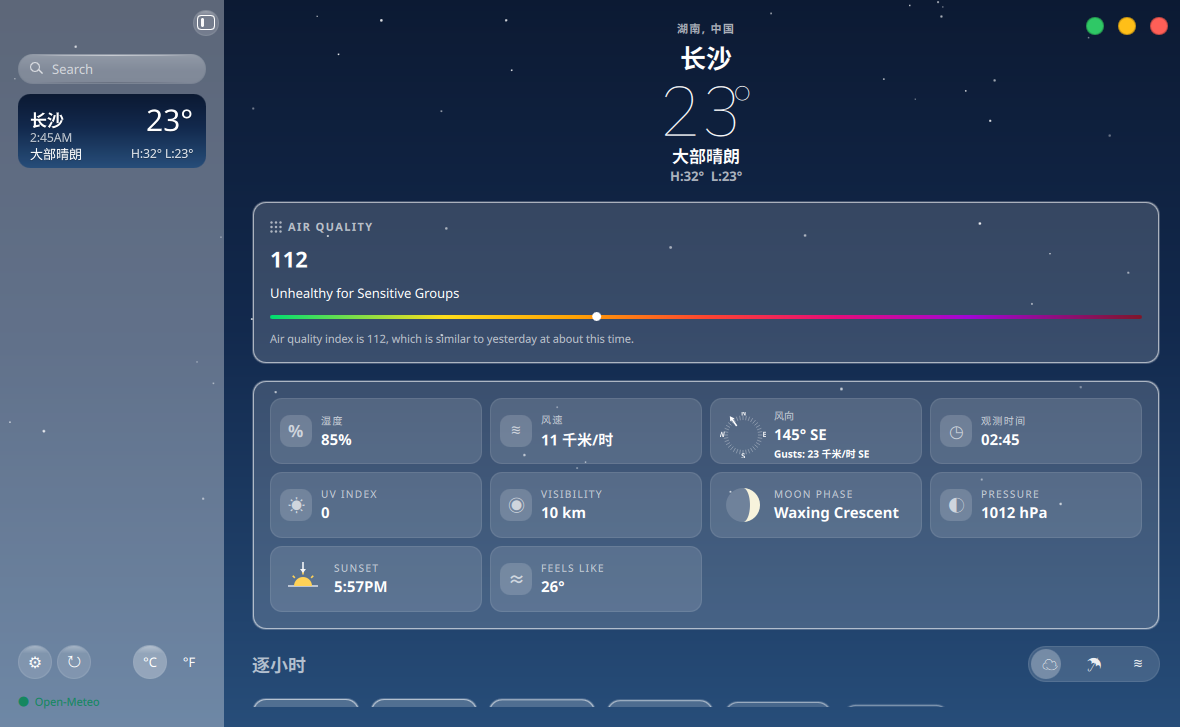
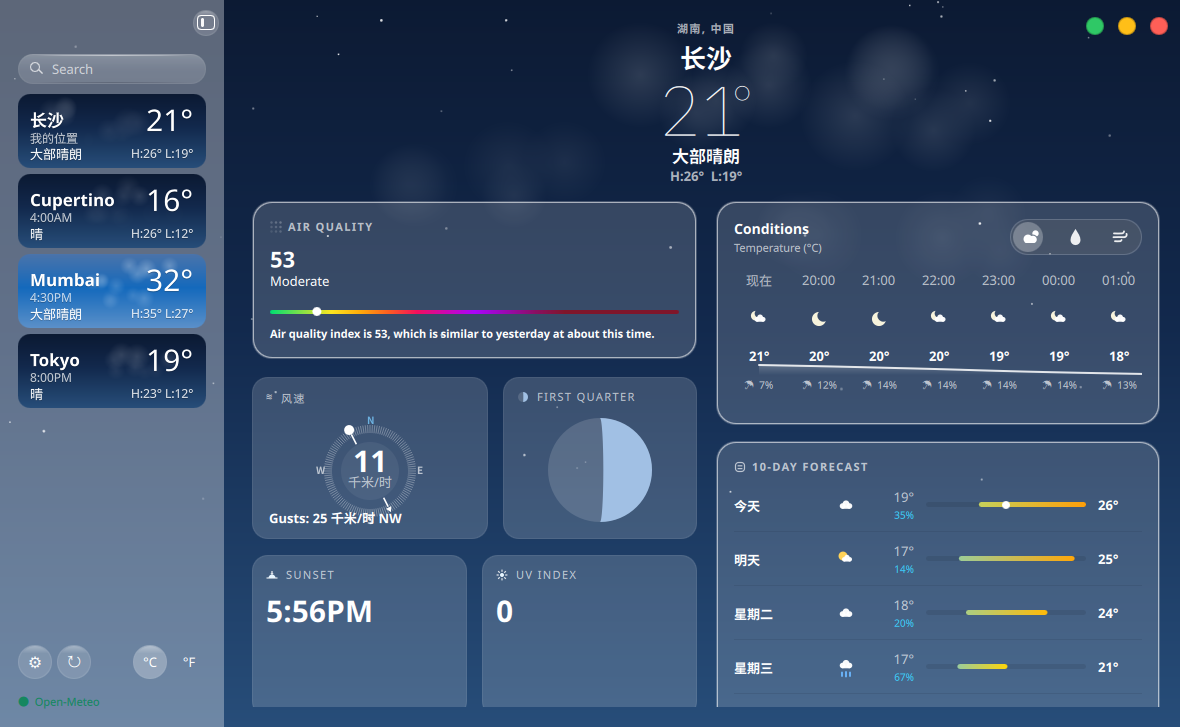
docs: round 54 进度与截图

diff --git a/docs/ui-weather/LEDGER.md b/docs/ui-weather/LEDGER.md
@@ -4,6 +4,10 @@
 参考实测色（814×498 主图采样）：天空 `#2961a7→#1469bc→#538ec9`（上→下，含云照片）；Conditions 卡 `#0057b2`；hero 文本 `#ffffff`；10天条渐变 青→黄→橙。
 
 ## 已改
+- **10 天行降水 % 从图标列移到低温列正下方（本轮，前端，零 Go/C++/shared/翻译改动，巡检轮新发现）**：对照 tile-10day（iPad 原生切片）实测——参考 Fri 行低温 "54°" 墨 x155-177、其下 "50%" 墨 x150-181（**同列近居中**），且垂直方向 temp+% 整块（y242-281，中心 261.5）对齐星期名中心（y257-268，中心 262.5），无 % 的 Thu 行 temp（y188-199）与星期名（y184-196）直接对齐；ref-main 中 % 同样在低温列下。我方 % 此前放在图标 Column 内（图标下方）——错一列。`apps/weather/qml/Main.qml:3142-3178`：% Label 移出图标 Column（图标列只剩 WeatherIcon）；低温 Label 包入 `Column { Layout.preferredWidth: 44; spacing: 2 }`，低温 `width: 44` 属性逐字保留，% Label `width: 44` AlignRight 同轴落下（color #3dcaf8 / 10px / visible>0 / Accessible.name 原样），注释标明 tile-10day 实测依据；其余零改动。
+  **实测**（本轮二进制截图 tmp/shots/pctmove-1792324951.png 过体检闸 ✅ 1180×727，dev env + KOS_SCREENSHOT_DELAY_MS=2500）：4 行 %（35/14/20/67%）全部落在各自低温正下方，% 右缘 x913 vs 低温右缘 x915（≤2px 同轴）；图标单列后垂直居中于行；目视 /tmp/z-10day-new.png 与 tile-10day 结构同构。
+  **回归**（vs 改前 patrol-1792324637，2px 步进 diff>24）：变化 480 采样，**470 落 10 天行区 (x715-1160 × y470-700)**（% 挪列+图标居中本体），区外仅 10 稀疏采样（星空/时钟已知噪声族，含 Conditions 卡 ☂ 行 2 个 AA 点），整窗 MAE **0.185**——hero/侧栏/瓦片/Conditions 零结构位移。qmllint 0 error（仅 1537 行既有 warning）。测试 Qt 6/6 绿、go test ok。本轮无动效改动，无帧差义务。
+  **残差**：a) 参考 % 与低温是"近居中"（% 左缘略超出低温左缘 ~3px），我方取 AlignRight 同轴（% 左缘缩进低温左缘 ~2px）——3-4px 级墨迹残差不再动；b) % 字号 10px 沿用旧值未按 tile 原生墨高独立复测（目视协调）。
 - **10 天行恢复暗色全宽轨道（本轮，前端，零 Go/C++/shared/翻译改动，巡检轮新发现，推翻旧"去灰色轨道"轮的测量）**：本轮对照 tile-10day（iPad 原生分辨率切片）+ ref-main Pillow 复测，证实旧记载"ref-main 10 天行无轨道"系测量失误——旧轮把**轨道色** (42,109,179) 误当卡面色，真实卡面 Thu 行是 (49,120,196)；ref-main 五条可见行（Today y346-349 / Thu y382-386 / Fri y419-420 / Sat y455-456 / Sun y491-492）低/高温标签间**整列**均有固定全宽暗轨道：高 ~5px、圆角胶囊、比卡面暗 Δ≈(-7,-12,-16) ≈ 黑@0.08-0.10（各行 α 离散 0.067-0.13）；tile-10day 独立佐证（四行轨道 x266-419、高 ~8-9px、卡面 (44,119,196)→轨道 (42,108,179)）。旧"白@0.28 亮轨道"删除方向仍正确（参考轨道是**暗**的不是亮的）。`apps/weather/qml/Main.qml:3177-3188` 渐变条前插入全宽轨道 Rectangle（x:0 / width:parent.width / height:5 / radius:2.5 / #000000@opacity 0.09，注释标明复测依据）；渐变条几何/渐变/Today 白点/行 delegate 零改动。
   **实测**（本轮二进制截图 tmp/shots/track-1792324349.png 过体检闸 ✅ 1180×727，dev env + KOS_SCREENSHOT_DELAY_MS=2500）：今天行轨道 (58,81,111) vs 卡面 (64,89,122) = **黑@0.09 精确命中**；星期三行两侧轨道 (65,92,125) vs 卡面 (71,101,137) 夹短渐变 x960-1005（两侧可见=全宽实证）；轨道高 5px（y664-668）与 ref 5px 同；今天行轨道右侧被 uMax=1.0 渐变覆盖与 ref Today 行同构；目视 /tmp/z-10day-new.png：四行渐变下细微暗轨道、与 tile-10day 同构。
   **回归**（vs 改前 patrol-1792323915，2px 步进 diff>24）：全窗仅 10 采样全落星空/时钟已知噪声族（轨道 Δ≈12 低于该阈值系参考级细微度，非缺席）；10 天卡区 diff>6 共 **1430px 全落 4 条 bar 行 y502-668**、整窗 MAE **0.020**——区外零结构位移。测试 Qt 6/6 绿、go test ok。本轮无动效改动，无帧差义务。
